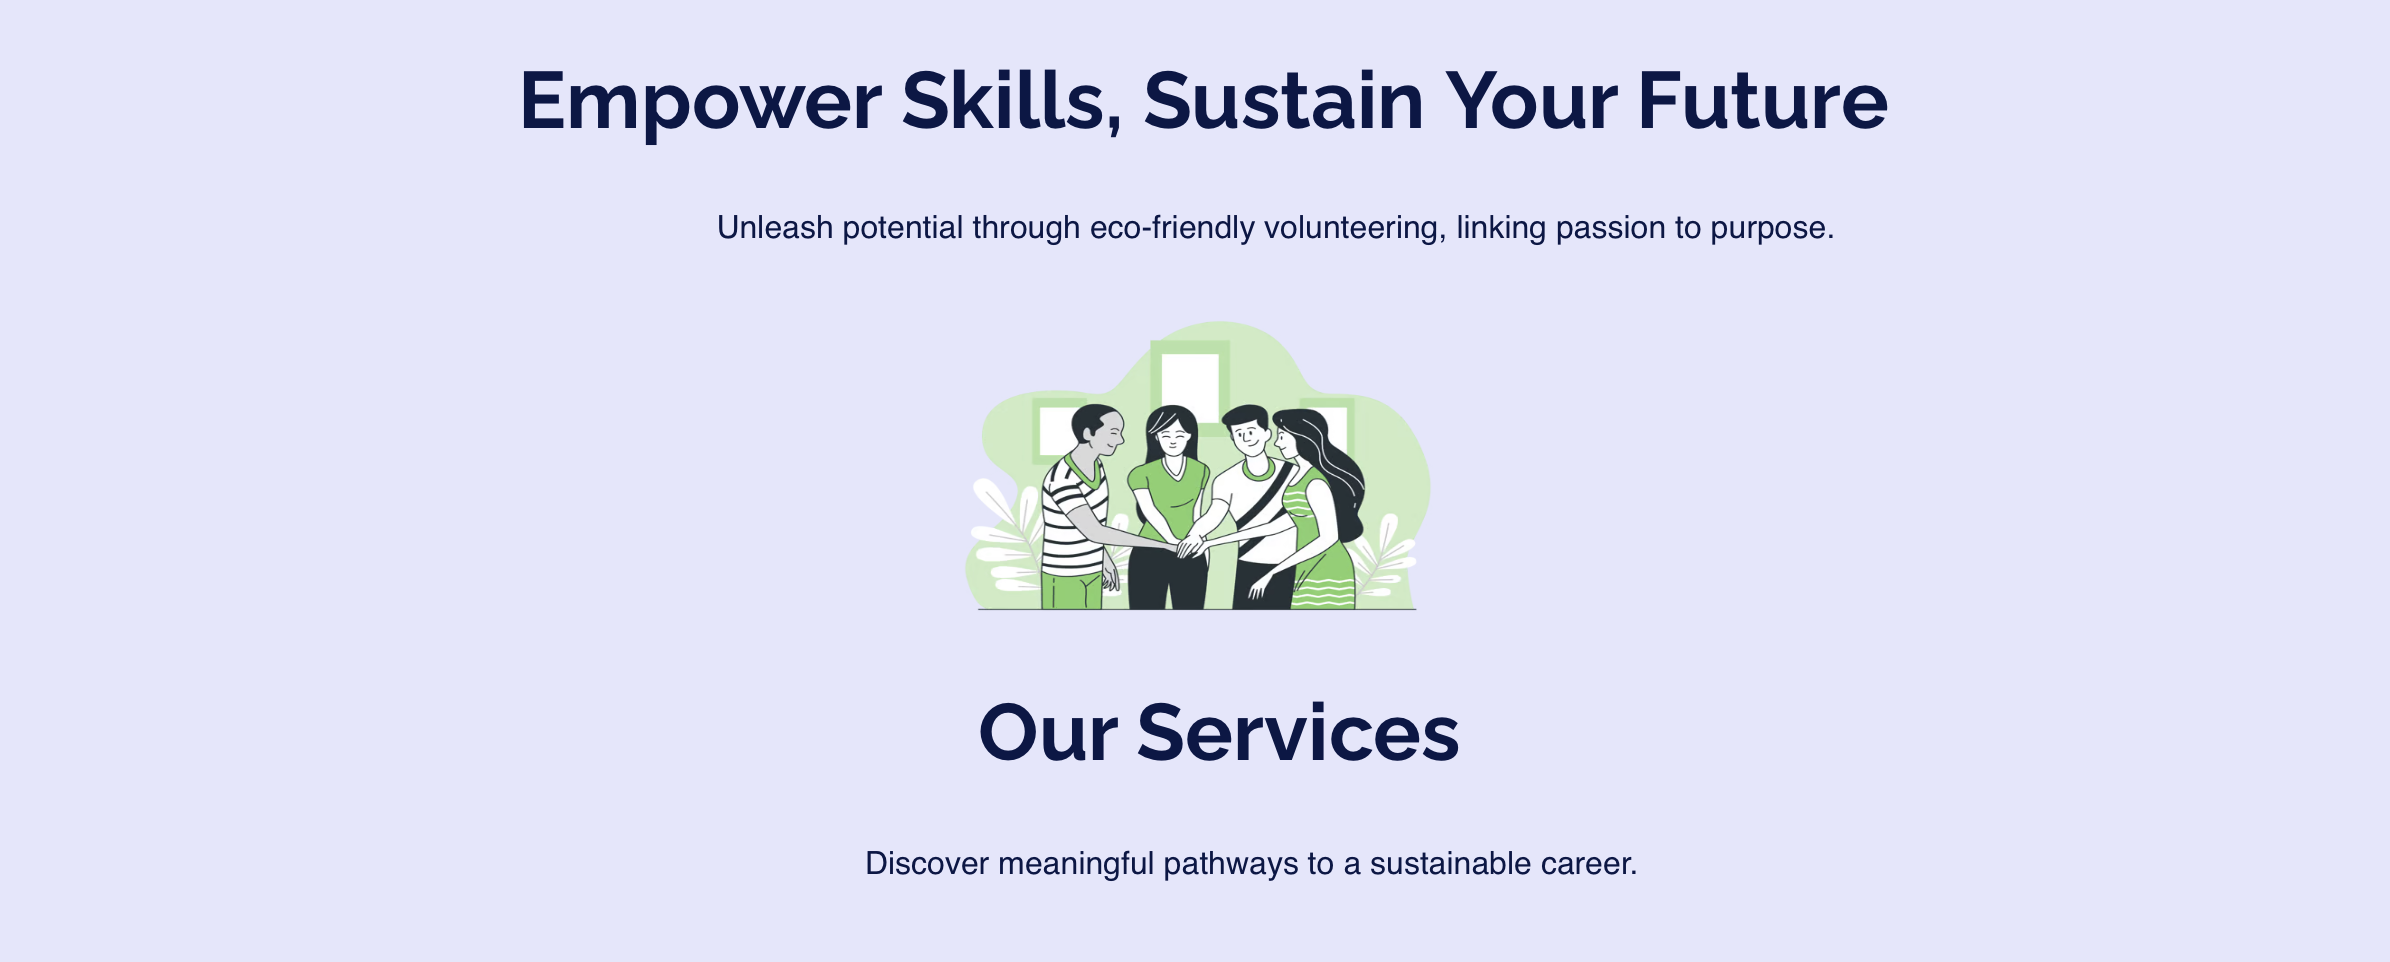
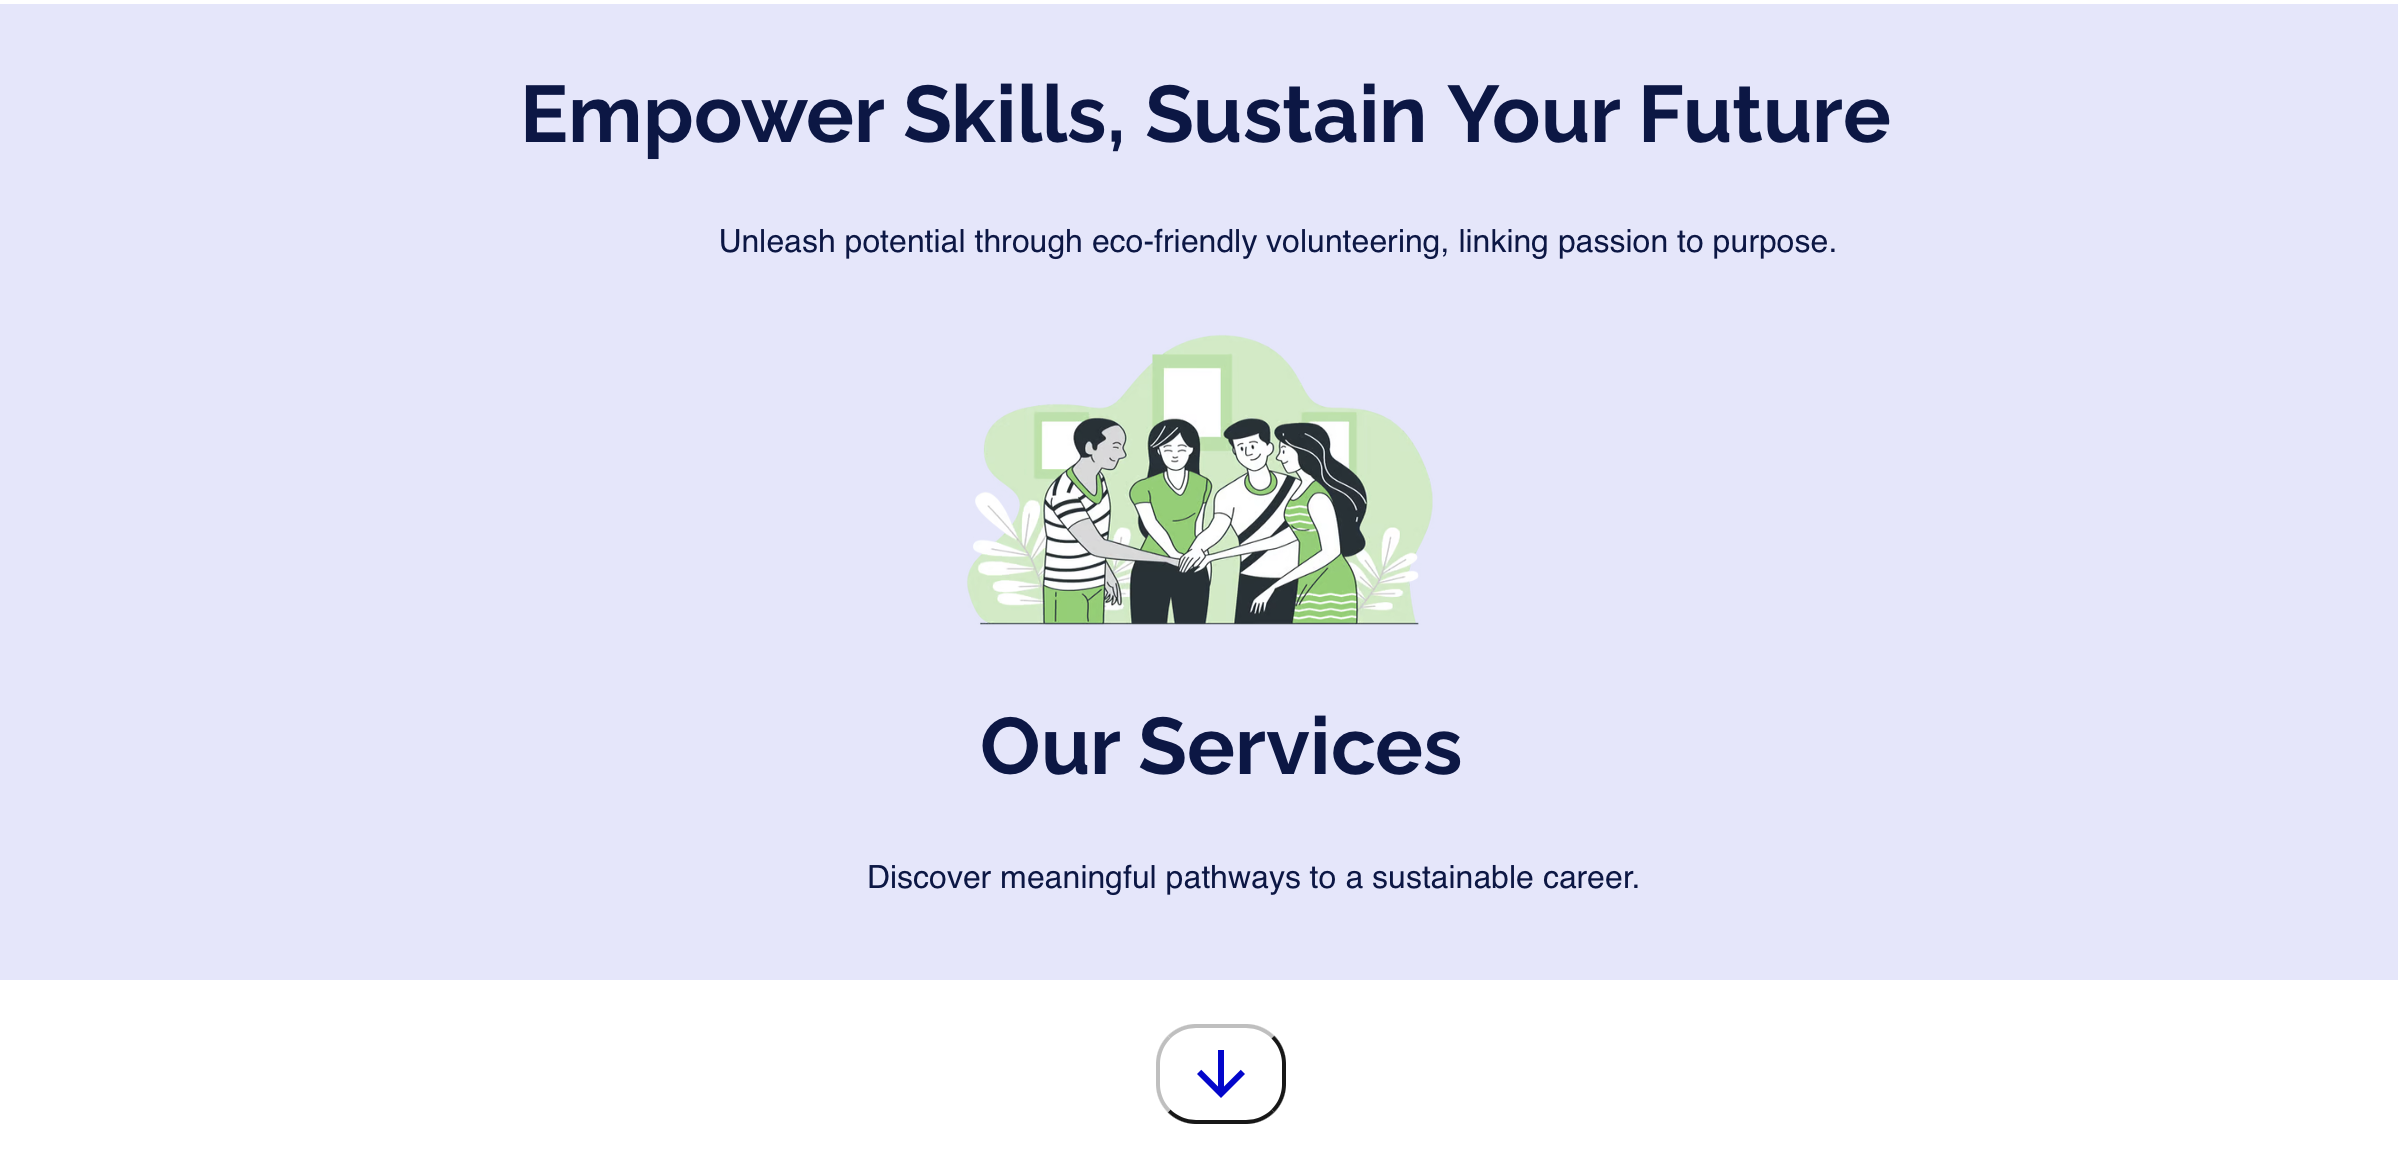
test update

diff --git a/style.css b/style.css
@@ -61,9 +61,10 @@ body {
   display: flex;
   flex-direction: column;
   align-items: center;
-  gap: 2rem;
+  gap: 0rem;
   padding: 3rem 1rem;
   text-align: center;
+  margin-bottom: 0rem;
 }
 
 .hero-text h2 {
@@ -74,21 +75,35 @@ body {
 .hero-text h3 {
   font-size: 1rem;
   color: #091747;
-   margin: 2rem 0;
+  margin: 2rem 0 1rem 0; /* top 2rem, right 0, bottom 1rem, left 0 */
+
 }
 
 .hero-image-center {
   display: flex;
+  flex-direction: column; /* stack vertically */
   justify-content: center;
   align-items: center;
   width: 100%;
   margin-top: 2rem;
+  margin-bottom: 1rem;
+  gap: 1rem; /* space between images */
 }
 .skills-logo {
   width: clamp(300px, 60%, 900px); /* smaller min, responsive, smaller max */
   max-width: 900px;
   height: auto;
   transition: all 0.5s ease;
+  margin-bottom: 0rem; /* controls space below image */
+}
+/* Base / Desktop (MacBook Pro) */
+.blue-image {
+  width: clamp(400px, 50%, 800px) !important; /* force size */
+  max-width: 800px !important;
+  height: auto;
+  transition: all 0.5s ease;
+    margin-top: 0rem; /* controls space above image */
+
 }
 /* ===== HERO LOGO GRID ===== */
 .hero-logos-grid {
@@ -100,6 +115,7 @@ body {
   width: 80%;
   max-width: 768px;
   margin-top: 2rem;
+  margin-bottom: 0.5rem;
 }
 
 
@@ -109,7 +125,9 @@ body {
     width: clamp(250px, 70%, 900px);
   }
 }
-
+  .blue-image {
+    width: clamp(150px, 50%, 600px);
+  }
 /* Mobile — hide completely */
 @media (max-width: 768px) {
   .skills-logo {
@@ -122,13 +140,14 @@ body {
   flex-direction: column;
   align-items: center;       /* center title + grid horizontally */
   text-align: center;
-  margin: 4rem 0;
+  margin: 2rem 0;
   width: 100%;
 }
 
 .section-title {
   font-size: 2rem;
   margin-bottom: 2rem;
+  margin-top: 0rem;
   color: #2c3e50;
   text-align: center;
 }

diff --git a/index.html b/index.html
@@ -33,6 +33,8 @@
   </div>
 
   <div class="hero-image-center">
+    <!-- image on top -->
+    <img src="hero-blue.png" alt="Blue Skills" class="blue-image">
     <img src="empower-skills.png" alt="Skills Logo" class="skills-logo">
   </div>
 
@@ -41,7 +43,7 @@
 
 <!-- Services Section -->
 <section class="services">
-  <h2 class="section-title">Our Features</h2>
+  <h2 class="section-title">Our Services</h2>
 
   <!-- Services Grid -->
   <div class="services-grid">
